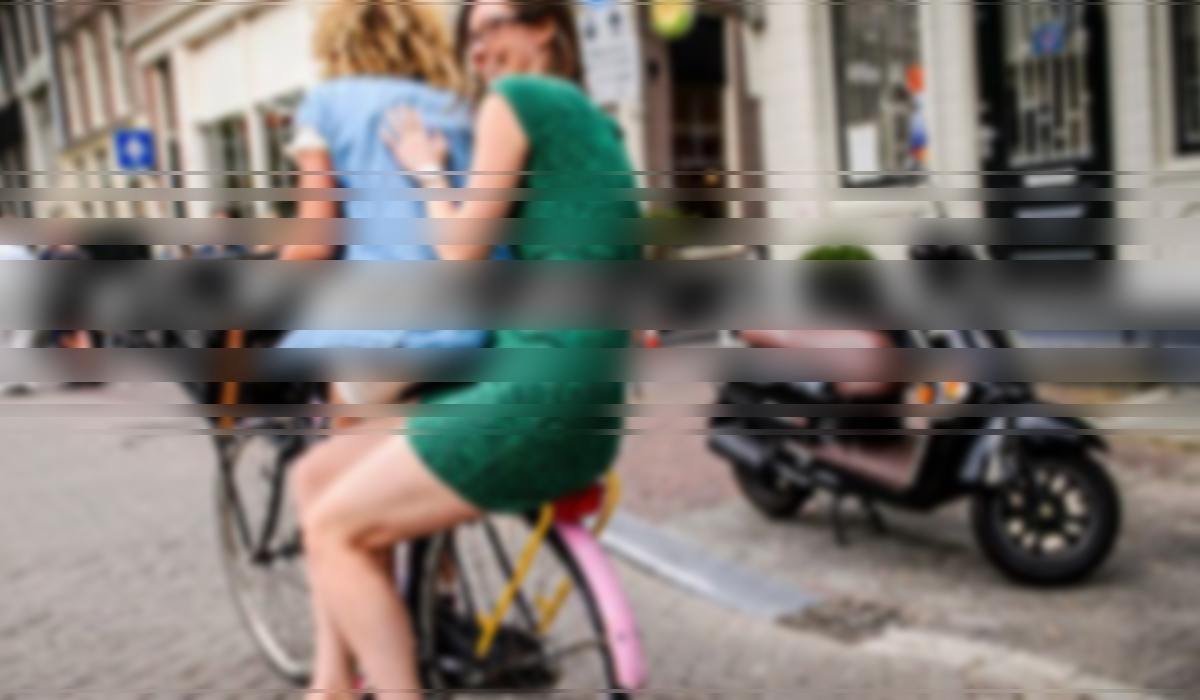
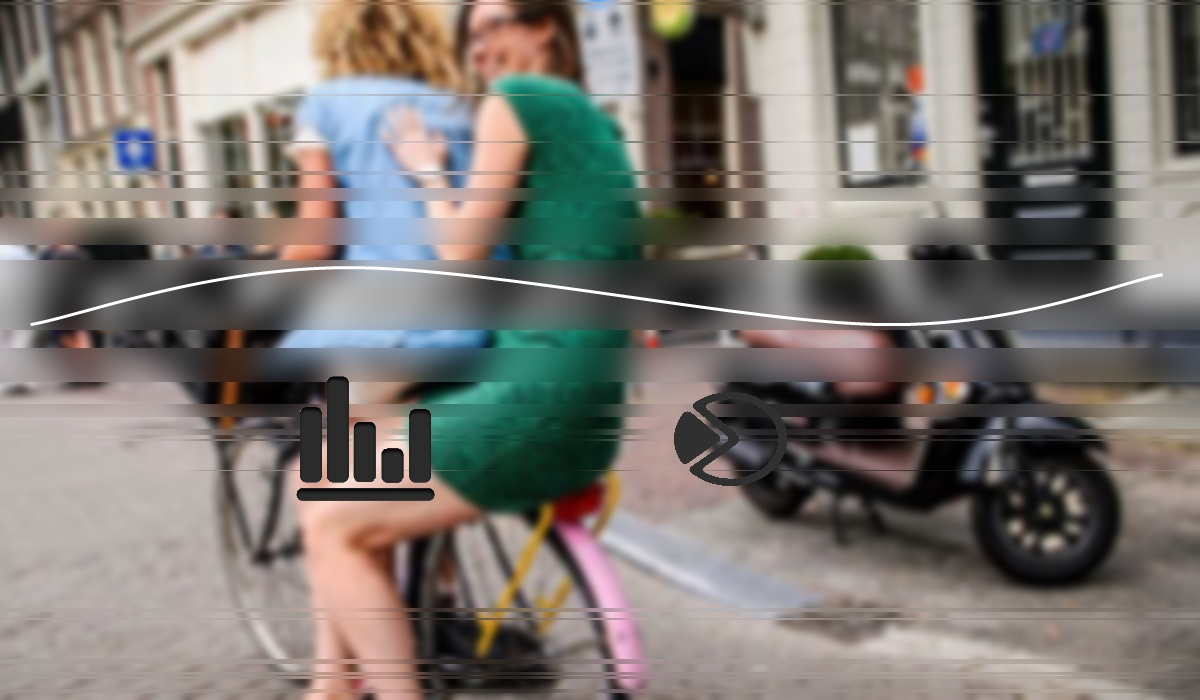
stylesheet, grafiek..colors.update3.3

diff --git a/src/Hoofdmenu.java b/src/Hoofdmenu.java
@@ -13,6 +13,7 @@ import javafx.scene.text.Text;
 import javafx.stage.Stage;
 
 import javax.swing.text.StyledEditorKit;
+import java.awt.*;
 import java.awt.image.ImageObserver;
 import java.util.ArrayList;
 import java.util.List;
@@ -31,12 +32,12 @@ public class Hoofdmenu extends Application {
         showedStage.setTitle("");
 
         Label welcomeLabel = new Label("Ik wil graag zien:");
-        welcomeLabel.setTranslateX(20);
-        welcomeLabel.setTranslateY(360);
+        welcomeLabel.setTranslateX(40);
+        welcomeLabel.setTranslateY(350);
 
         Button grafiekButton = new Button("Grafiek");
         grafiekButton.setTranslateX(300);
-        grafiekButton.setTranslateY(325);
+        grafiekButton.setTranslateY(275);
         grafiekButton.setOnAction(e -> {GrafiekMenu.display();
         });
 
@@ -49,15 +50,15 @@ public class Hoofdmenu extends Application {
         Text text3 = new Text("this app will show you all the save and unsave places  where you can put your bycicle.");
         text3.setFont(Font.font ("Arial Black", FontWeight.BOLD, 20));
         text3.setFill(Color.WHITESMOKE);
-        text3.setTranslateX(5);
+        text3.setTranslateX(70);
         text3.setTranslateY(200);
 
 
 
 
         Button pieButton = new Button("Cirkel Diagram");
-        pieButton.setTranslateX(650);
-        pieButton.setTranslateY(250);
+        pieButton.setTranslateX(600);
+        pieButton.setTranslateY(200);
         pieButton.setOnAction(e -> {CirkelDiagramMenu.display();
         });
 
@@ -74,5 +75,11 @@ public class Hoofdmenu extends Application {
         showedStage.setScene(mainScene);
         showedStage.show();
     }
+
+
+
+
+
+
 
 }

diff --git a/src/Database/Diefstal.java b/src/Database/Diefstal.java
@@ -10,7 +10,7 @@ public class Diefstal {
     public static int getNumber(String SQL) {
         int res = 0;
         try {
-            Connection con = DriverManager.getConnection("jdbc:postgresql://localhost:5432/Fietsdief", "postgres", "rainbowbrony1");
+            Connection con = DriverManager.getConnection("jdbc:postgresql://localhost:5432/Fietsdief", "postgres", "28061991");
             Statement stmnt = con.createStatement();
             ResultSet rs = stmnt.executeQuery(SQL);
             while (rs.next()) {
